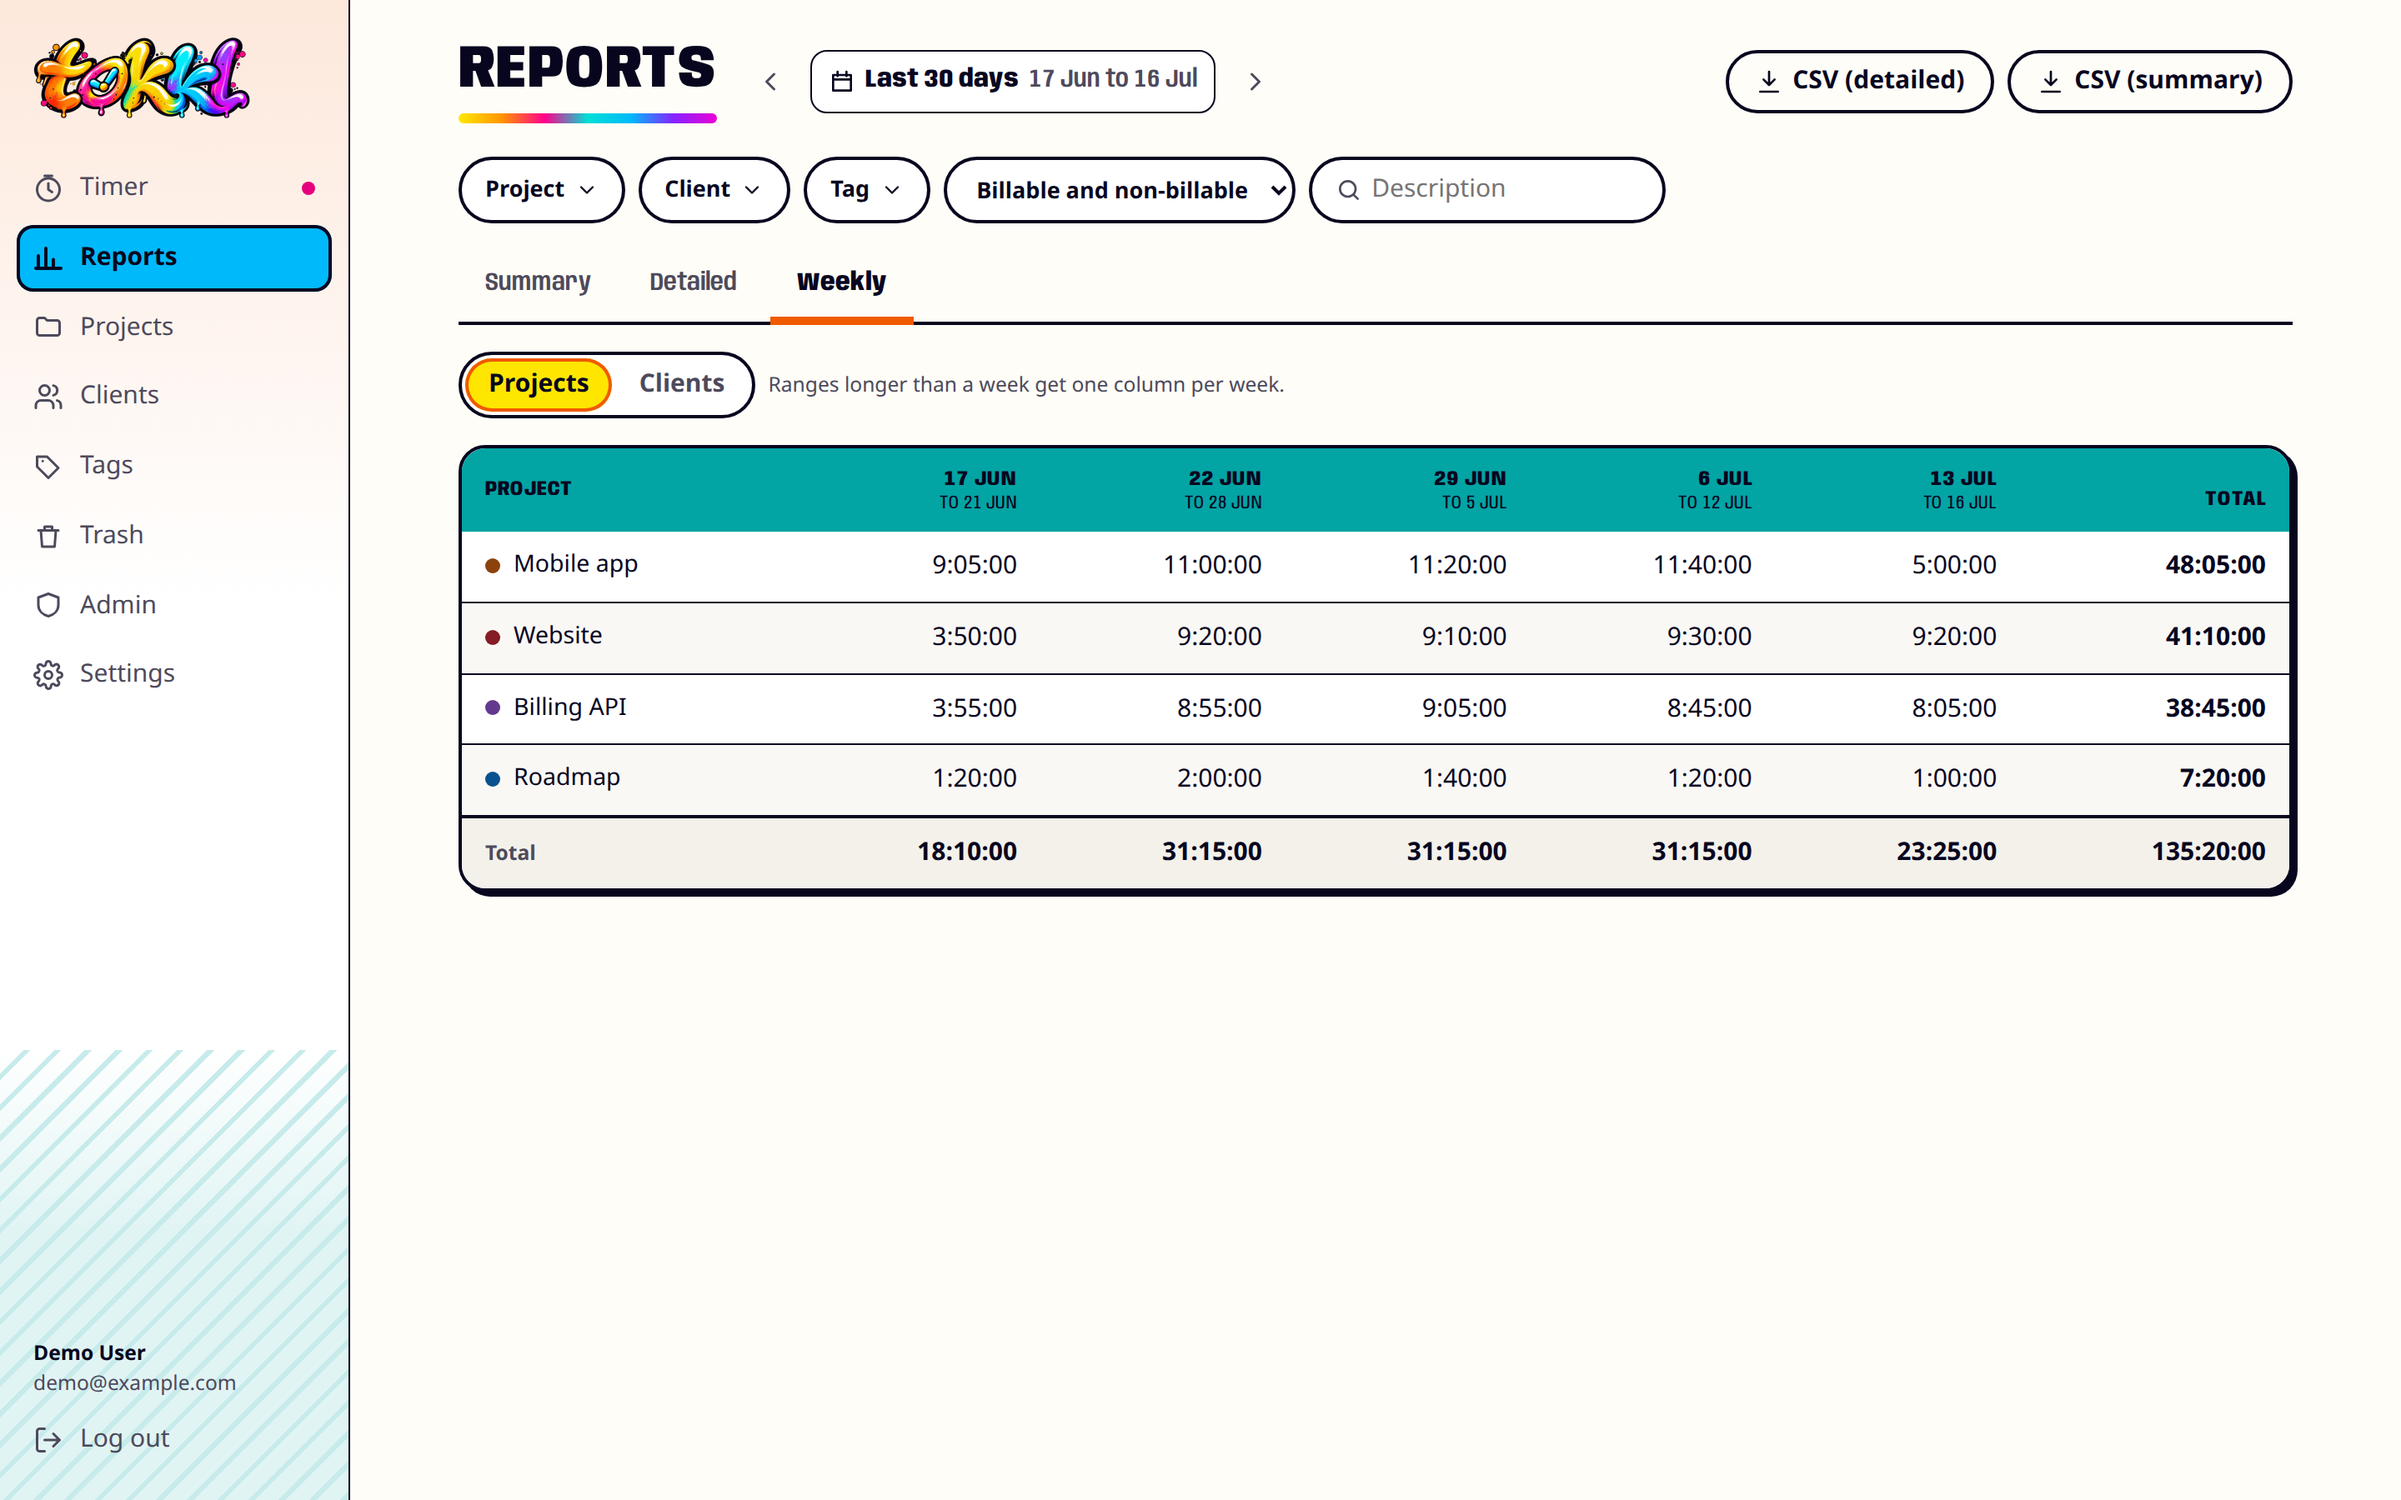
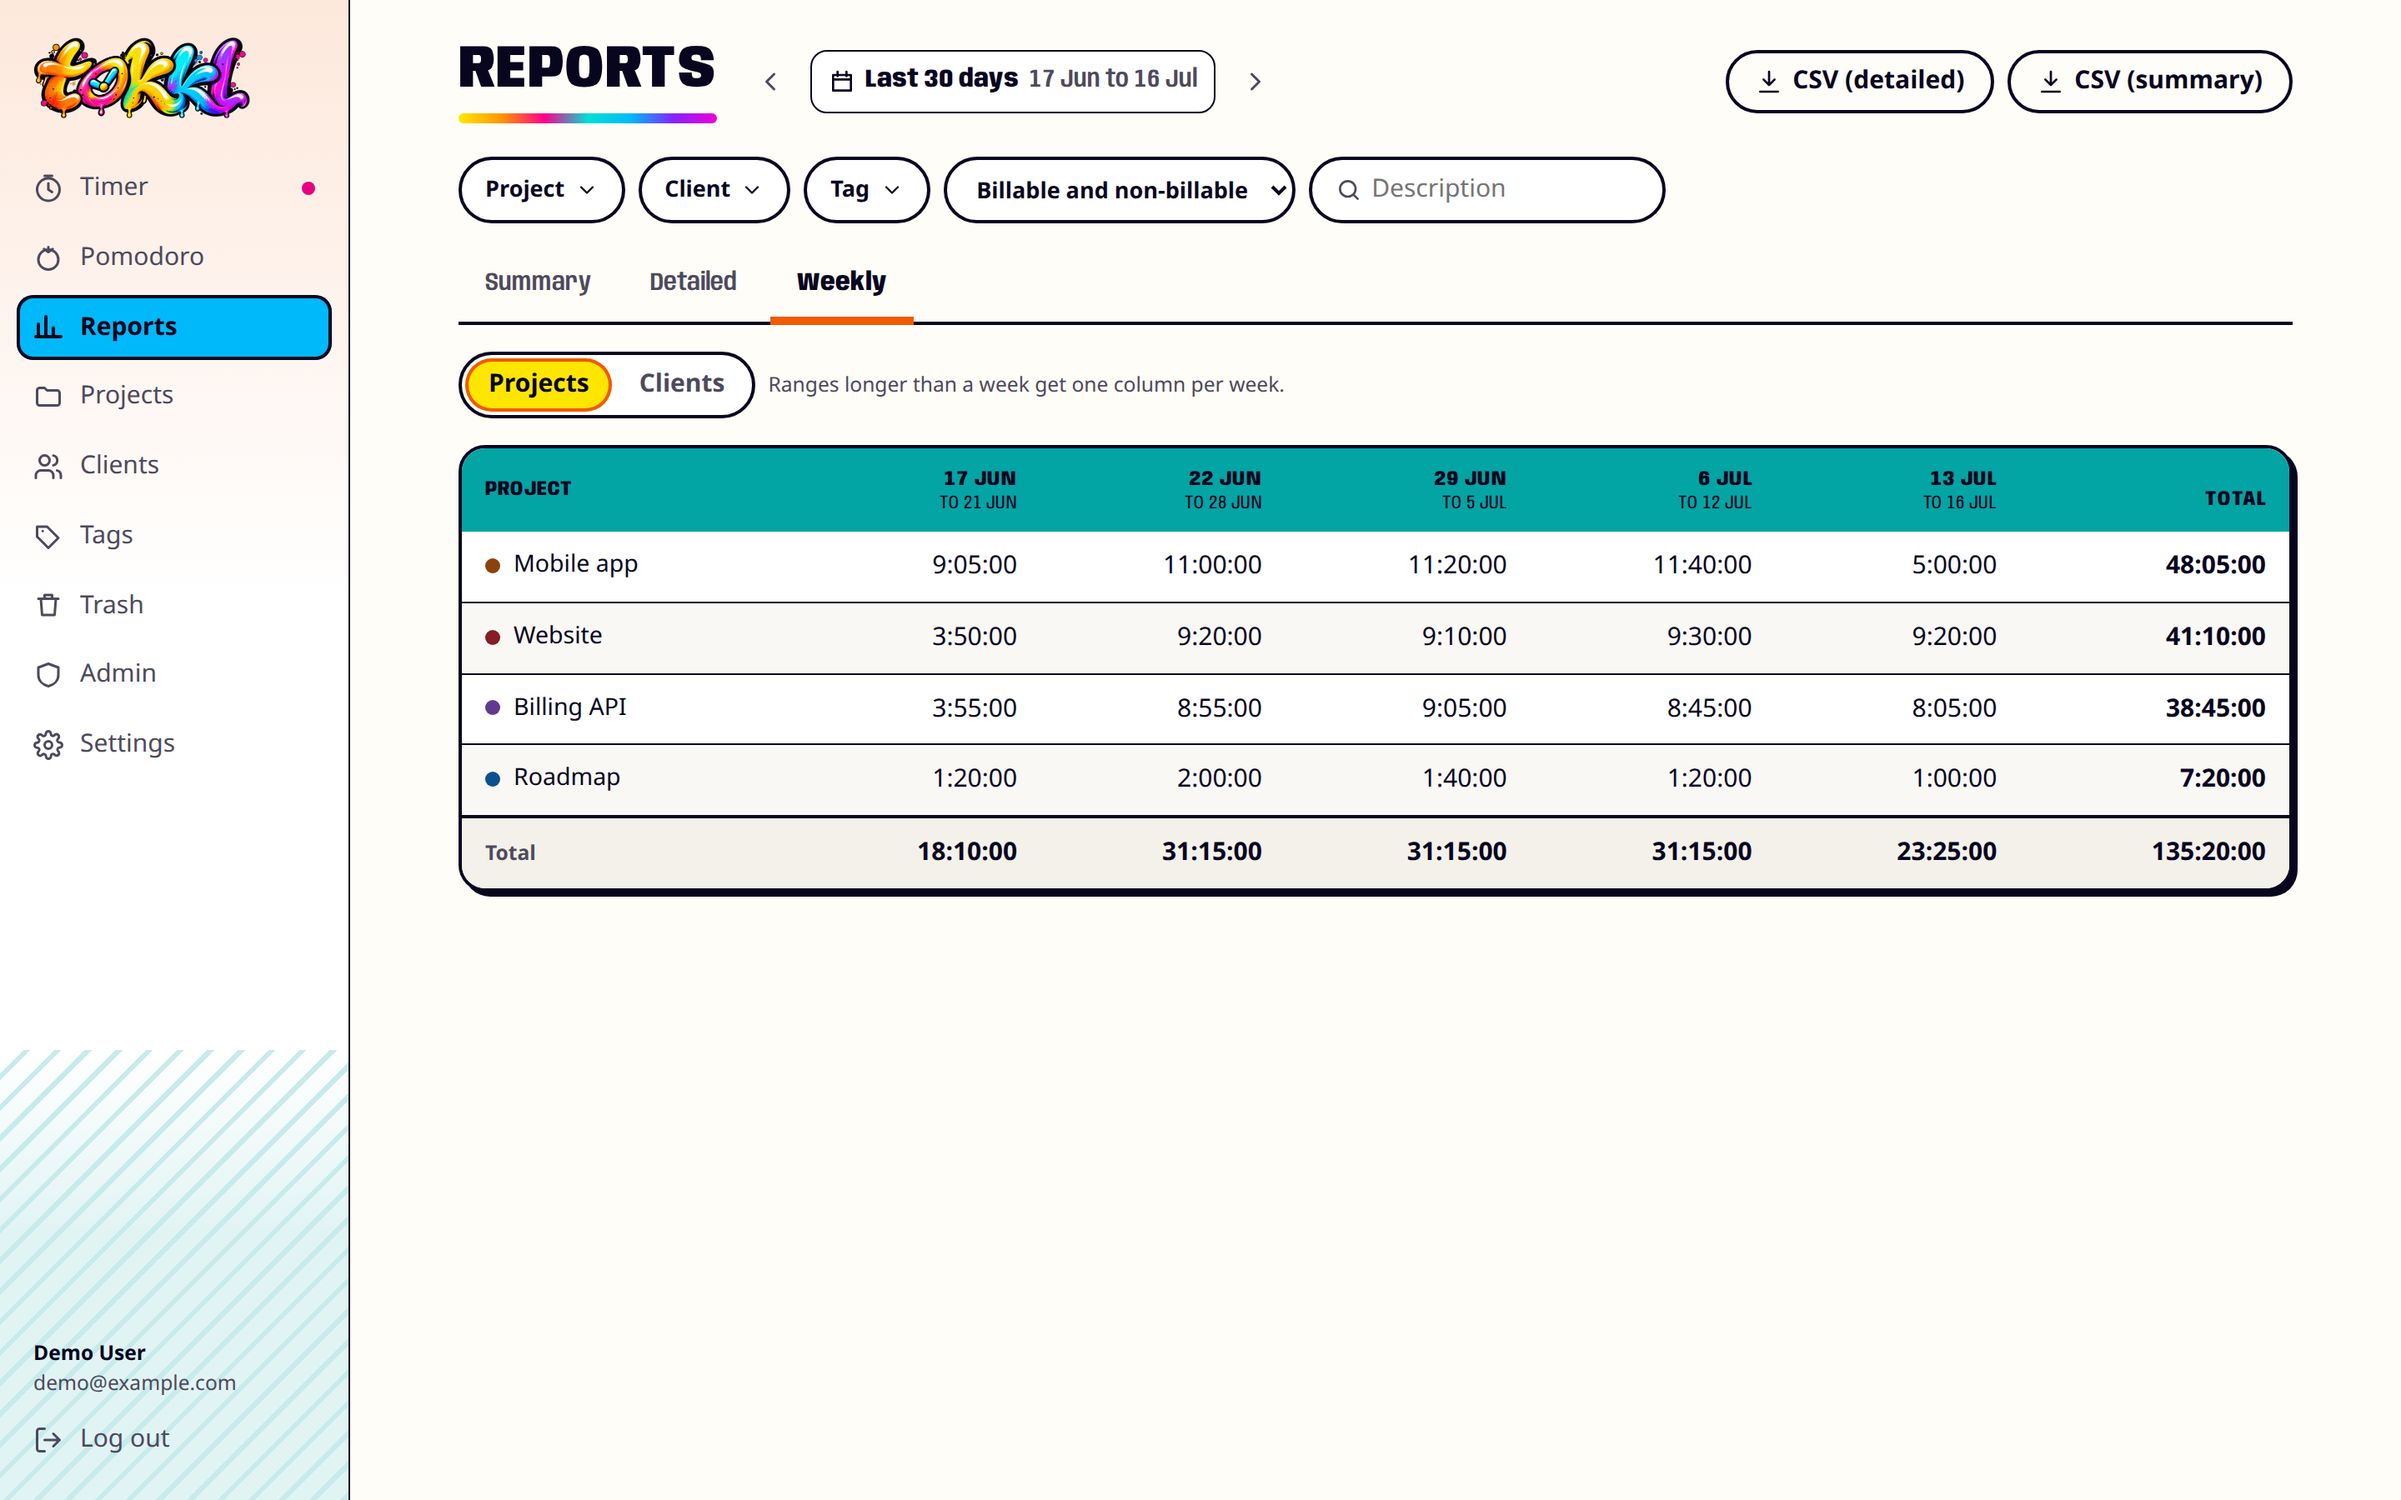
docs: describe Pomodoro sessions
Describe session controls and navigation, refresh README images, and
mark session Pomodoro done while keeping idle detection planned.

Refs: TT-0329

Changed region(s): [[0.0, 0.1244, 0.1562, 0.4044], [0.0, 0.4356, 0.0625, 0.4978]]

diff --git a/docs/PRD.md b/docs/PRD.md
@@ -90,7 +90,7 @@ Priority follows MoSCoW. Status is the state of this repository on 2026-10-16: *
 | T10 | Discard a running entry, with undo. | SHOULD | Done |
 | T11 | Favorites: pin up to 9 entries, start them by click or number keys `1` to `9`. | SHOULD | Done (stored in preferences) |
 | T12 | Pause and resume. Toggl has none; continue plus grouping covers it. | COULD | Done: the timer bar and the KDE, macOS and GNOME companions pause, resume and stop. Pause stops the entry and Resume starts a clone of it with the same description, project, task, tags and billable flag. The display adds up the chain until Stop, and the next start begins at 0:00. Each client keeps its chain locally, and the API is unchanged. |
-| T13 | Idle detection, long-running timer reminders and a Pomodoro session. Idle detection and reminders need a native app or notifications permission. Pomodoro is an intentional mode on its own page, separate from the regular timer, and has no on/off preference. Each session sets its own work, short rest and long rest minutes and long-rest-every N. The start form begins from the four shared preference keys (section 6.2). Phases run work, then a short rest or, after every Nth work phase, a long rest, then work again. A phase changes only when the user confirms Next phase. Confirming before the planned end is a skip. After the planned end the phase counts overtime until the user confirms. Every ended work phase counts toward N, skipped ones too, and the count restarts after a long rest. End session works at any time. At each planned phase end, the sound for that transition loops until the user confirms the next phase or ends the session. There are four sounds, for work to short rest, short rest to work, work to long rest and long rest to work, and no control that only silences them. Each pomodoro, a work phase plus the rest after it, is saved as one stopped entry when it ends. Both ends snap to the time resolution, and an entry shares its boundary with the next one. A pomodoro whose ends snap to the same point is not saved, and the user is told. One thing runs at a time. Starting a session stops the running timer, and starting a timer ends the session. The session lives on the device. The server stores only the saved entries and the four defaults. | COULD | Partial: long-running timer reminders are done. Once a running timer passes `long_timer_reminder_hours` and `long_timer_reminder_enabled` is on, the web app shows a banner and, in a background tab with notifications allowed, a browser notification. The user keeps the timer running or reviews it. The session start form and running view are available at `/pomodoro`, with editable entry fields, session lengths, countdown, overtime and notification permission controls. Failed session saves retain their snapped span and fields per account, retry with backoff and on focus or reconnect, and reconcile uncertain responses against saved entries. The page shows the unsaved count even after the session ends. Signout makes one final save attempt and discards unsaved session data. Session alarms, timer exclusion, navigation and idle detection are planned. The earlier timer-tied Pomodoro remains available. |
+| T13 | Idle detection, long-running timer reminders and a Pomodoro session. Idle detection and reminders need a native app or notifications permission. Pomodoro is an intentional mode on its own page, separate from the regular timer, and has no on/off preference. Each session sets its own work, short rest and long rest minutes and long-rest-every N. The start form begins from the four shared preference keys (section 6.2). Phases run work, then a short rest or, after every Nth work phase, a long rest, then work again. A phase changes only when the user confirms Next phase. Confirming before the planned end is a skip. After the planned end the phase counts overtime until the user confirms. Every ended work phase counts toward N, skipped ones too, and the count restarts after a long rest. End session works at any time. At each planned phase end, the sound for that transition loops until the user confirms the next phase or ends the session. There are four sounds, for work to short rest, short rest to work, work to long rest and long rest to work, and no control that only silences them. Each pomodoro, a work phase plus the rest after it, is saved as one stopped entry when it ends. Both ends snap to the time resolution, and an entry shares its boundary with the next one. A pomodoro whose ends snap to the same point is not saved, and the user is told. One thing runs at a time. Starting a session stops the running timer, and starting a timer ends the session. The session lives on the device. The server stores only the saved entries and the four defaults. | COULD | Partial: session Pomodoro and long-running timer reminders are done; idle detection is planned. Once a running timer passes `long_timer_reminder_hours` and `long_timer_reminder_enabled` is on, the web app shows a banner and, in a background tab with notifications allowed, a browser notification. The user keeps the timer running or reviews it. The session start form and running view are available at `/pomodoro`, with editable entry fields, session lengths, countdown, overtime and notification permission controls. Failed session saves retain their snapped span and fields per account, retry with backoff and on focus or reconnect, and reconcile uncertain responses against saved entries. The page shows the unsaved count even after the session ends. Signout makes one final save attempt and discards unsaved session data. Session alarms loop until Next phase or End session, and the session banner stays available on every page. Starting a session stops the running timer; starting a timer ends the session. Pomodoro follows Timer in the sidebar and phone bar, with Reports under More on phones. |
 | T14 | Start links (a URL that starts a specific timer, for iOS Shortcuts and bookmarks). | COULD | Planned |
 
 ### 5.2 Manual entry and parsing

diff --git a/README.md b/README.md
@@ -9,7 +9,7 @@ Product requirements and feature status are in [docs/PRD.md](docs/PRD.md).
 ## What it does
 
 - Timer with one running entry, pause and resume, Stop, continue, autocomplete, favorites (`1` to `9`), and Toggl's shortcuts (`N`, `S`, `C`, `M`, `?`).
-- Pomodoro sessions in the web app, on their own page: work and rest phases with a long rest after every few pomodoros, an alarm and a banner on any page that last until you choose the next phase or end the session, a browser notification when Tokkl is not in front, and one time entry saved for each pomodoro.
+- Pomodoro sessions on their own page, with work, short rest and long rest lengths set per session from the shared defaults in Settings. Next phase skips any remaining time or ends overtime; each phase waits for you to confirm. Each transition has its own looping sound, with a banner on any page until you choose the next phase or end the session, and a browser notification when Tokkl is not in front. Each pomodoro, work plus the rest after it, saves one time entry. One thing runs at a time: starting a session stops the timer, and starting a timer ends the session.
 - Manual mode that understands `9`, `930`, `9:30`, `4pm`, entries across midnight, and durations like `1h 30m`, `90`, `1,5h`.
 - Day-grouped history with no 90-day limit, inline edits, grouping of similar entries, bulk edit, duplicate, split, undo and a trash.
 - Projects (colors, clients, rates, estimates, tasks), clients, tags.
@@ -22,7 +22,7 @@ Product requirements and feature status are in [docs/PRD.md](docs/PRD.md).
 
 The data is synthetic: three clients, five projects and five weeks of weekday entries, with one timer running. One client and one project are archived. `npm run screenshots` regenerates the images from that data, as the [Development](#development) section explains.
 
-**Timer.** The running entry is at the top and history is grouped by day. Favorites are bold numbered pills under the timer, and the sidebar lists Timer, Reports, Projects, Clients, Tags, Trash and Settings, plus Admin for admins.
+**Timer.** The running entry is at the top and history is grouped by day. Favorites are bold numbered pills under the timer, and the sidebar lists Timer, Pomodoro, Reports, Projects, Clients, Tags, Trash and Settings, plus Admin for admins.
 
 ![Timer with a running entry and day-grouped history](docs/screenshots/desktop-timer.png)
 
